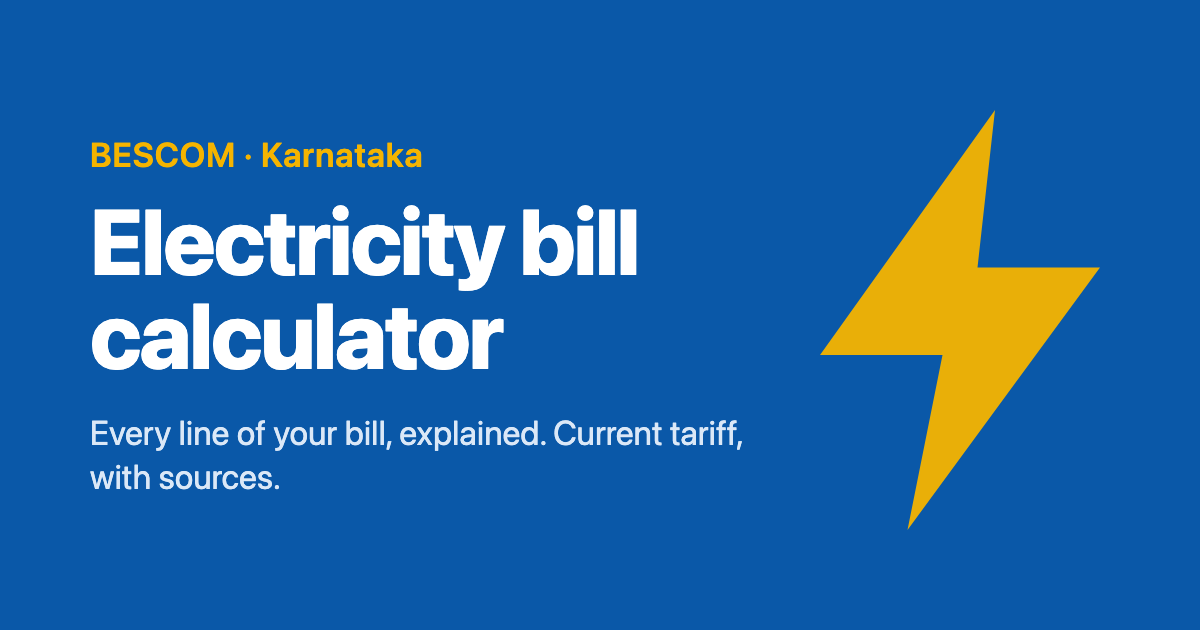
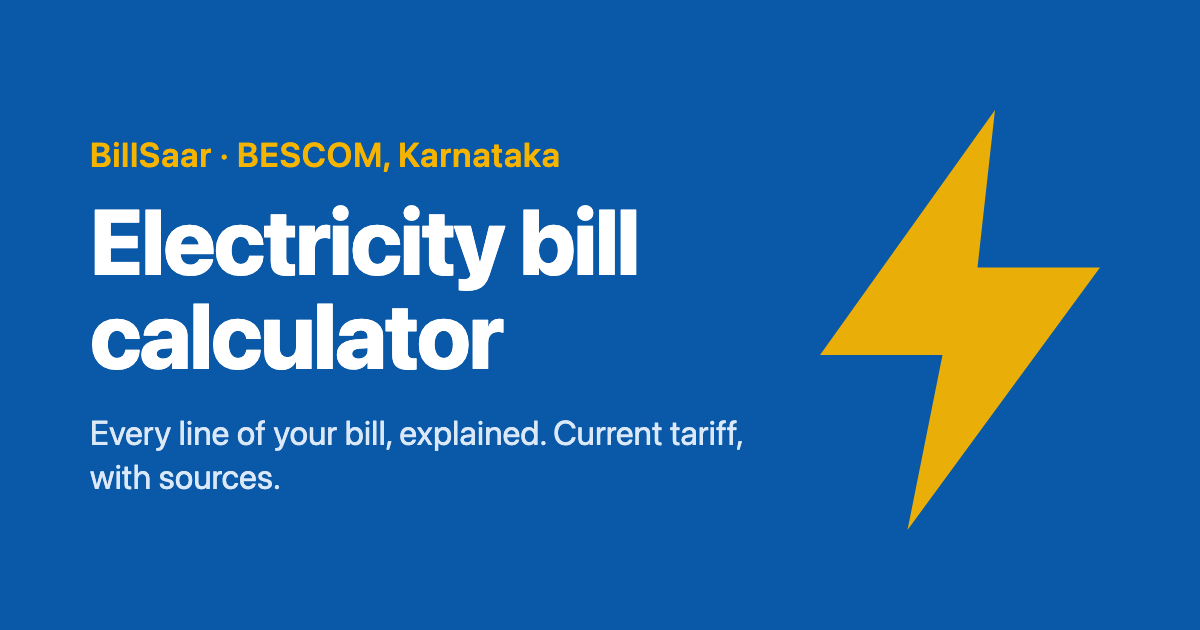
Updated site to https://billsaar.workers.dev

Changed region(s): [[0.0925, 0.2111, 0.4625, 0.2714]]

diff --git a/scripts/og-image.html b/scripts/og-image.html
@@ -17,7 +17,7 @@
   </head>
   <body>
     <svg class="bolt" viewBox="0 0 32 32" aria-hidden="true"><path d="M18 4 8 18h7l-2 10 11-15h-7z" fill="#f5b400" /></svg>
-    <p class="kicker">BESCOM · Karnataka</p>
+    <p class="kicker">BillSaar · BESCOM, Karnataka</p>
     <h1>Electricity bill calculator</h1>
     <p>Every line of your bill, explained. Current tariff, with sources.</p>
   </body>

diff --git a/src/site.ts b/src/site.ts
@@ -1,7 +1,7 @@
 // Site-wide settings. Change the name or contact here; the production URL lives in astro.config.mjs.
 export const SITE = {
-  name: 'Current Bill Calculator',
-  shortName: 'CurrentBill',
+  name: 'BillSaar',
+  shortName: 'BillSaar',
   /** TODO: set a contact address before launch (shown on /about/). Leave empty to hide it. */
   contactEmail: '',
   ogImage: '/og.png',

diff --git a/README.md b/README.md
@@ -1,4 +1,6 @@
-# Current Bill Calculator
+# BillSaar
+
+Live: https://www.billsaar.workers.dev
 
 A fast, no-signup, mobile-first static site that calculates and explains Indian household electricity bills, starting with
 BESCOM (Bengaluru), FY2026-27. Built with Astro and TypeScript. There is no backend. Rates live in JSON files, so you
